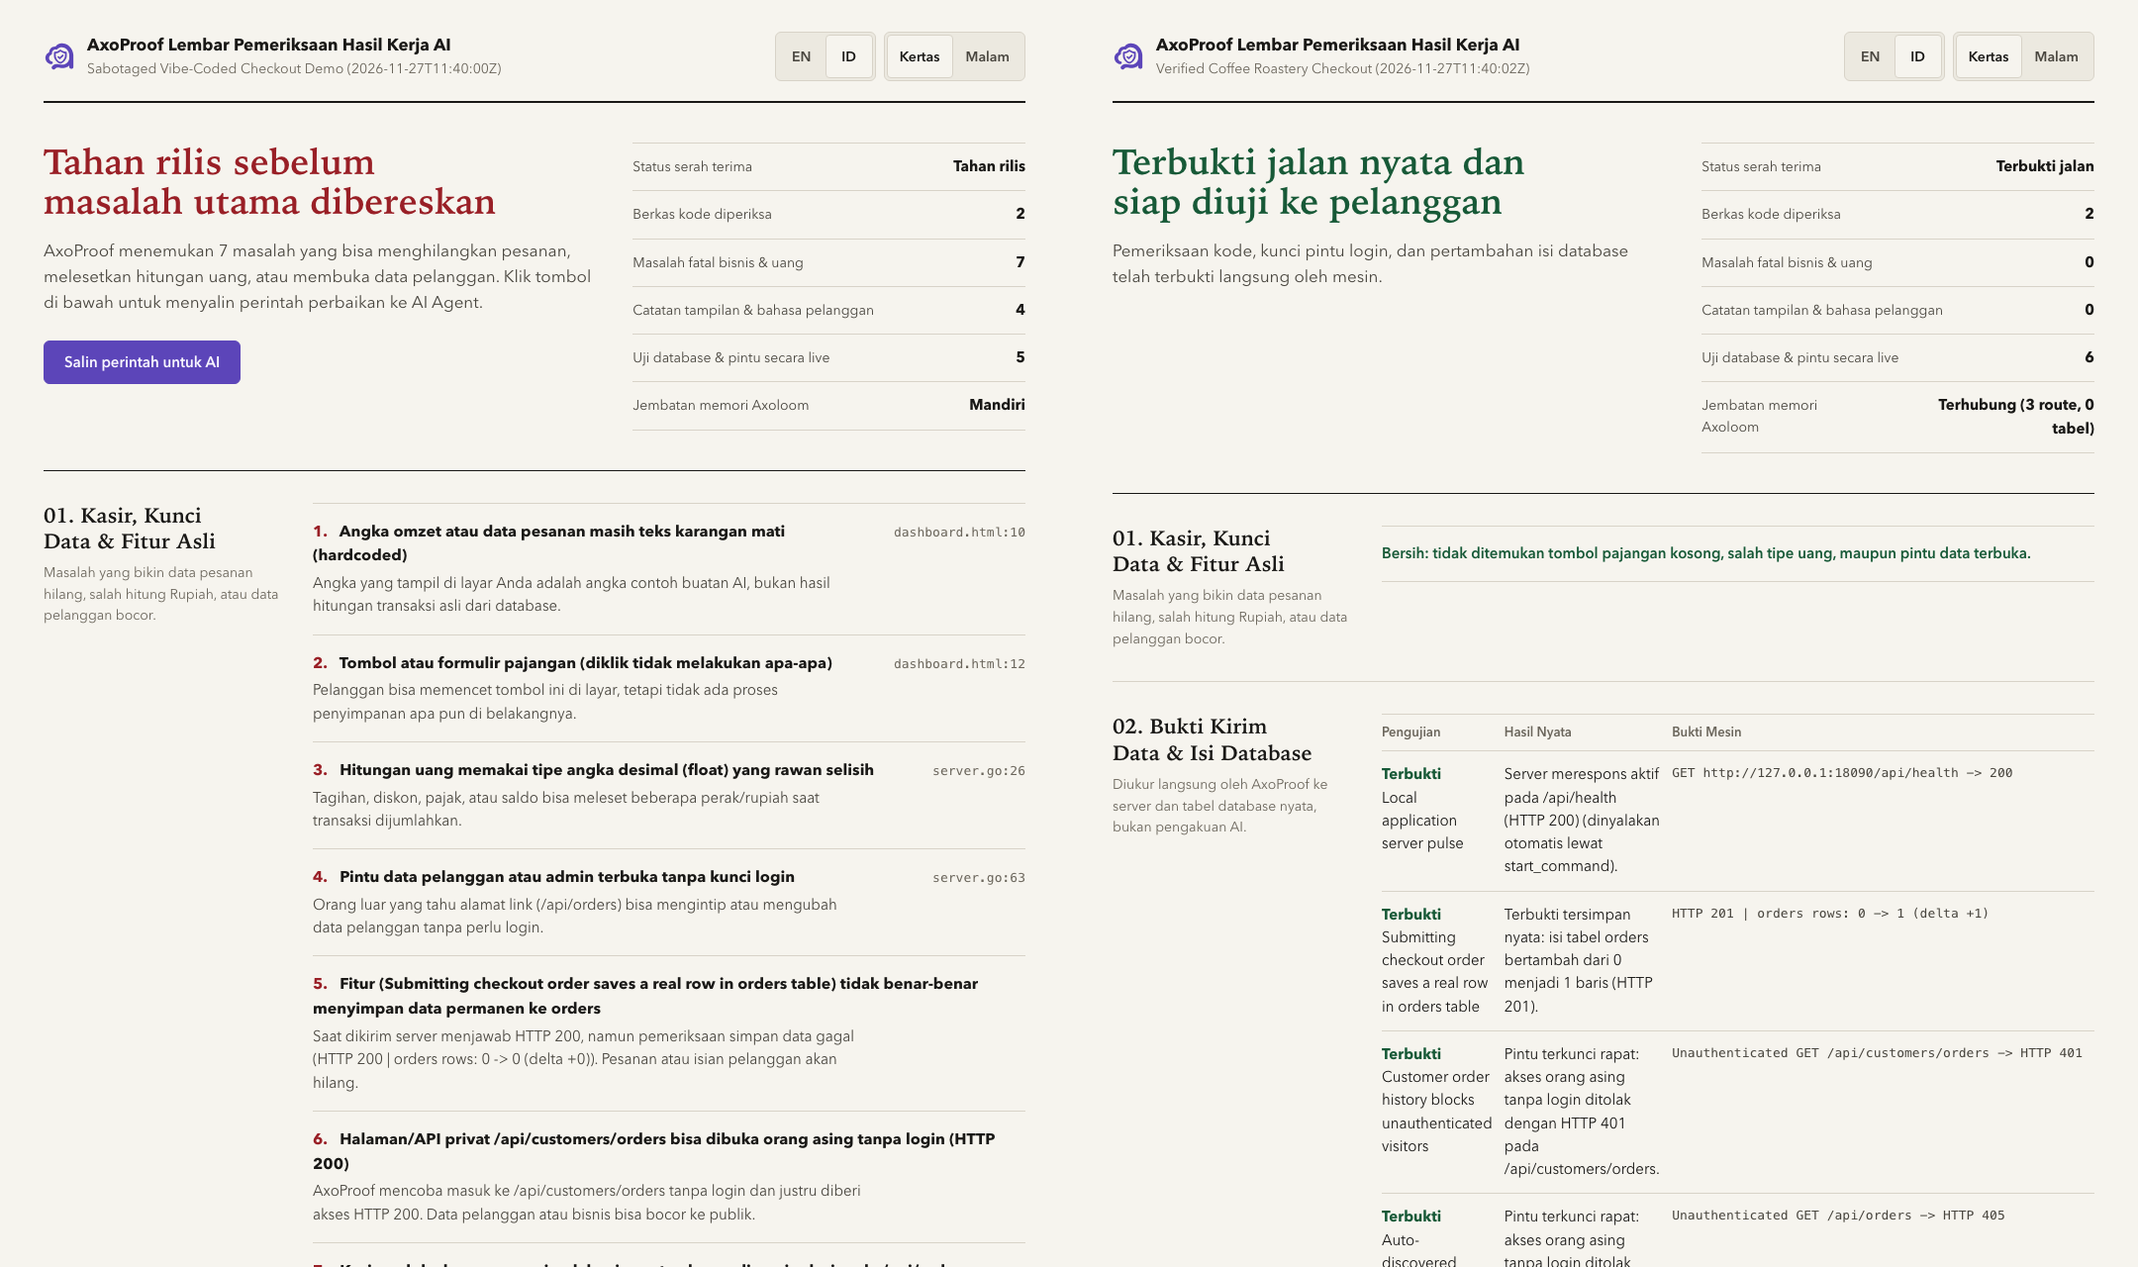
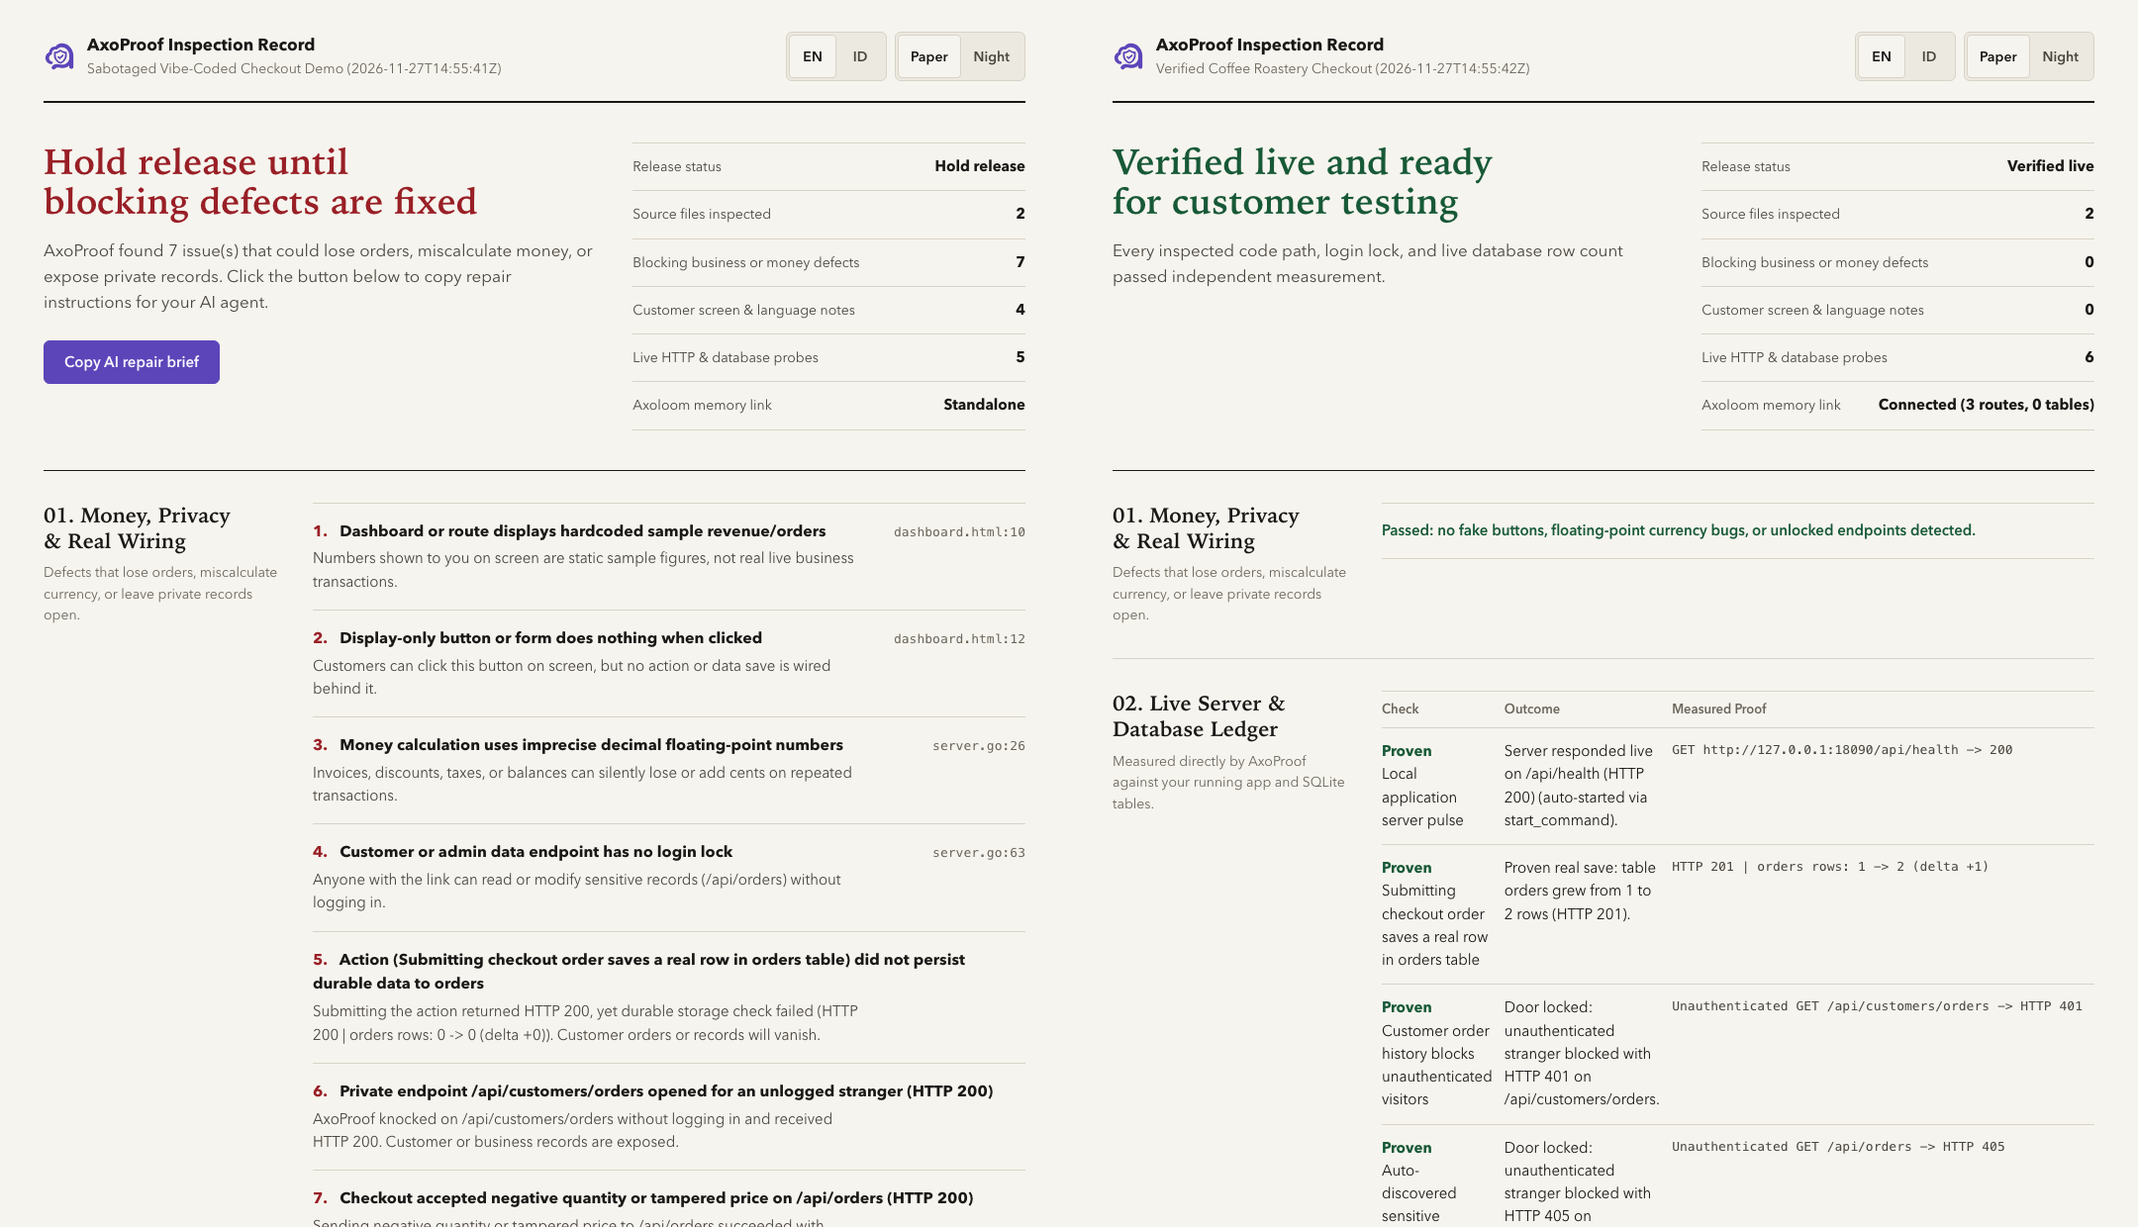
docs: standardize all examples, skill modules, and showcase dossier to international English

diff --git a/examples/sabotaged-checkout/dashboard.html b/examples/sabotaged-checkout/dashboard.html
@@ -7,7 +7,7 @@
 <body>
   <h1>Unleash the Power of Seamlessly Integrated Retail</h1>
   <p>Trusted by 10,000+ stores worldwide! Contact us at support@example.com</p>
-  <div class="kpi">Total Pendapatan Hari Ini: Rp 18.500.000</div>
+  <div class="kpi">Total Revenue: $18,500.00</div>
   <a href="#">Download Tax Invoice</a>
   <button class="h-5" onClick={() => {}}>Sync Stock</button>
 </body>

diff --git a/examples/verified-checkout/dashboard.html b/examples/verified-checkout/dashboard.html
@@ -5,8 +5,8 @@
   <title>Roastery Order Desk</title>
 </head>
 <body>
-  <h1>Fresh Roasted Arabica Beans</h1>
-  <p>Orders placed before 15:00 WIB ship the same afternoon.</p>
+  <h1>Fresh Roasted Single-Origin Beans</h1>
+  <p>Orders placed before 15:00 UTC ship the same afternoon.</p>
   <a href="/orders/history">View My Orders</a>
 </body>
 </html>

diff --git a/internal/scanners/scanner.go b/internal/scanners/scanner.go
@@ -259,10 +259,10 @@ func ScanWorkspaceFiltered(workDir string, allowedRelPaths map[string]bool) (Sca
 					Line:             lineNo,
 					TitleEN:          "Money calculation uses imprecise decimal floating-point numbers",
 					TitleID:          "Hitungan uang memakai tipe angka desimal (float) yang rawan selisih",
-					BusinessImpactEN: "Invoices, discounts, taxes, or balances can silently lose or add cents/Rupiah on repeated transactions.",
-					BusinessImpactID: "Tagihan, diskon, pajak, atau saldo bisa meleset beberapa perak/rupiah saat transaksi dijumlahkan.",
-					EvidenceSnippet:  truncateSnippet(trimmed),
-					RepairInstruction: "Store and compute all monetary values as integer minor units (int64 cents/Rupiah) or exact SQL NUMERIC/DECIMAL in " + rel + ".",
+					BusinessImpactEN:  "Invoices, discounts, taxes, or balances can silently lose or add cents on repeated transactions.",
+					BusinessImpactID:  "Tagihan, diskon, pajak, atau saldo bisa meleset beberapa perak/rupiah saat transaksi dijumlahkan.",
+					EvidenceSnippet:   truncateSnippet(trimmed),
+					RepairInstruction: "Store and compute all monetary values as integer minor units (int64 cents) or exact SQL NUMERIC/DECIMAL in " + rel + ".",
 				})
 			}
 			if reClientPrice.MatchString(line) && (strings.Contains(strings.ToLower(rel), "order") || strings.Contains(strings.ToLower(rel), "checkout") || strings.Contains(strings.ToLower(rel), "pay") || strings.Contains(strings.ToLower(rel), "cart") || ext == ".go" || ext == ".ts" || ext == ".py") {
@@ -274,7 +274,7 @@ func ScanWorkspaceFiltered(workDir string, allowedRelPaths map[string]bool) (Sca
 					Line:             lineNo,
 					TitleEN:          "Checkout trusts item price sent directly from the buyer's browser",
 					TitleID:          "Kasir mempercayai harga barang yang dikirim dari browser pembeli",
-					BusinessImpactEN: "A buyer can edit browser request data and purchase expensive items for Rp 1 or $0.01.",
+					BusinessImpactEN:  "A buyer can edit browser request data and purchase expensive items for $0.01.",
 					BusinessImpactID: "Pembeli nakal bisa mengubah harga barang dari browser menjadi Rp 1 saat checkout.",
 					EvidenceSnippet:  truncateSnippet(trimmed),
 					RepairInstruction: "Never trust client-submitted price fields in " + rel + "; look up authoritative unit prices from the server database by item SKU/ID.",

diff --git a/examples/verified-checkout/server.go b/examples/verified-checkout/server.go
@@ -14,13 +14,13 @@ import (
 )
 
 // Verified production-ready checkout server demonstrating all AxoProof gates passing:
-// 1. Exact int64 Rupiah minor-unit catalog pricing looked up on the server
+// 1. Exact int64 minor-unit (USD cents) catalog pricing looked up on the server
 // 2. Durable SQLite INSERT inside POST /api/orders (rows grow 0 -> 1)
 // 3. Rejects negative/zero quantities with HTTP 400
 // 4. Blocks unauthenticated strangers on GET /api/customers/orders with HTTP 401
 
-var serverCatalogRupiah = map[string]int64{
-	"COFFEE-BEAN-1KG": 125000,
+var serverCatalogCents = map[string]int64{
+	"COFFEE-BEAN-1KG": 2450,
 }
 
 type SafeOrderInput struct {
@@ -44,8 +44,8 @@ func main() {
 		id INTEGER PRIMARY KEY AUTOINCREMENT,
 		sku TEXT NOT NULL,
 		quantity INTEGER NOT NULL,
-		unit_price_idr INTEGER NOT NULL,
-		total_idr INTEGER NOT NULL
+		unit_price_cents INTEGER NOT NULL,
+		total_cents INTEGER NOT NULL
 	)`)
 	if err != nil {
 		log.Fatal(err)
@@ -76,20 +76,20 @@ func main() {
 			http.Error(w, `{"error":"quantity must be at least 1"}`, http.StatusBadRequest)
 			return
 		}
-		unitPrice, ok := serverCatalogRupiah[in.SKU]
+		unitPrice, ok := serverCatalogCents[in.SKU]
 		if !ok {
 			http.Error(w, `{"error":"item not found in catalog"}`, http.StatusBadRequest)
 			return
 		}
-		totalIDR := unitPrice * in.Quantity
-		if _, err := db.Exec(`INSERT INTO orders (sku, quantity, unit_price_idr, total_idr) VALUES (?, ?, ?, ?)`,
-			in.SKU, in.Quantity, unitPrice, totalIDR); err != nil {
+		totalCents := unitPrice * in.Quantity
+		if _, err := db.Exec(`INSERT INTO orders (sku, quantity, unit_price_cents, total_cents) VALUES (?, ?, ?, ?)`,
+			in.SKU, in.Quantity, unitPrice, totalCents); err != nil {
 			http.Error(w, `{"error":"could not save order"}`, http.StatusInternalServerError)
 			return
 		}
 		w.Header().Set("Content-Type", "application/json")
 		w.WriteHeader(http.StatusCreated)
-		_, _ = fmt.Fprintf(w, `{"status":"saved","total_idr":%d}`, totalIDR)
+		_, _ = fmt.Fprintf(w, `{"status":"saved","total_cents":%d}`, totalCents)
 	})
 
 	mux.HandleFunc("/api/customers/orders", func(w http.ResponseWriter, r *http.Request) {

diff --git a/examples/sabotaged-checkout/server.go b/examples/sabotaged-checkout/server.go
@@ -12,13 +12,13 @@ import (
 	_ "modernc.org/sqlite"
 )
 
-// Intentionally sabotaged demo checkout server showcasing the 5 classic AI "vibe-coding" traps
+// Intentionally sabotaged demo checkout server showcasing the classic AI "vibe-coding" traps
 // caught automatically by AxoProof:
 // 1. Float64 currency rounding + trusting client-submitted price directly
 // 2. Ghost checkout handler (returns 200 OK "paid" WITHOUT inserting a row into SQLite!)
 // 3. Unlocked customer data route (/api/customers/orders returns 200 OK with PII without login!)
 // 4. Negative quantity exploit accepted on /api/orders
-// 5. Dashboard HTML with hardcoded fake revenue ("Rp 18.500.000"), example.com, href="#", & brochure slop
+// 5. Dashboard HTML with hardcoded fake revenue ("$18,500.00"), example.com, href="#", & brochure slop
 
 type OrderInput struct {
 	SKU      string  `json:"sku"`
@@ -71,7 +71,7 @@ func main() {
 	// TRAP 3: Sensitive customer endpoint with zero authentication check!
 	mux.HandleFunc("/api/customers/orders", func(w http.ResponseWriter, r *http.Request) {
 		w.Header().Set("Content-Type", "application/json")
-		_, _ = w.Write([]byte(`{"orders":[{"customer":"Budi","phone":"0811992233","item":"VIP Package"}]}`))
+		_, _ = w.Write([]byte(`{"orders":[{"customer":"Alice Morgan","email":"alice@client.test","item":"Annual Pro Plan"}]}`))
 	})
 
 	log.Printf("Sabotaged demo store listening on %s", addr)

diff --git a/cmd/axoproof/main.go b/cmd/axoproof/main.go
@@ -263,8 +263,8 @@ func buildBlindspots(m claims.Manifest, probeOut probes.Outcome) []model.Blindsp
 		})
 	}
 	list = append(list, model.BlindspotItem{
-		TitleEN: "Real bank/QRIS/Stripe settlement & business offer accuracy",
-		TitleID: "Uang masuk rekening asli (QRIS/Bank/Stripe) & kesesuaian harga bisnis",
+		TitleEN: "Real bank/Stripe settlement & business offer accuracy",
+		TitleID: "Uang masuk rekening asli (Bank/Stripe/QRIS) & kesesuaian harga bisnis",
 		WhyEN:   "Automated local probes never move real bank funds; always confirm one live payment and verify your real product pricing before public ads.",
 		WhyID:   "Pengujian lokal tidak memindahkan uang bank asli; selalu tes 1 pembayaran kecil nyata dan pastikan daftar harga sesuai katalog asli Anda.",
 	})

diff --git a/README.md b/README.md
@@ -4,7 +4,7 @@
 
 <h3 align="center">
   Independent Runtime Proof, Money/Privacy Inspector, Structural Anti-Slop Filter,<br>
-  and SHA-256 Sealed Owner Receipt (<code>EN / ID</code>) for AI Coding Agents.
+  and SHA-256 Sealed Owner Receipt for AI Coding Agents.
 </h3>
 
 <p align="center">
@@ -22,7 +22,7 @@
 
 AI coding agents routinely tell non-technical founders, agency owners, and busy builders *"Done! Build passed!"* while leaving behind hidden landmines:
 
-- **Placebo Interfaces:** Buttons that show a green success toast while saving `0` rows to the database, or dashboard cards showing hardcoded sample revenue (`Rp 18.500.000`).
+- **Placebo Interfaces:** Buttons that show a green success toast while saving `0` rows to the database, or dashboard cards showing hardcoded sample revenue (`$18,500.00`).
 - **Cash-Register Bugs:** Floating-point rounding errors on currency, negative-quantity exploits (`quantity: -5`), or checkout routes that trust item prices sent directly from the buyer's browser.
 - **Unlocked Customer Doors:** Sensitive `/api/customers` or `/api/orders` endpoints left open without authentication, or secret keys leaked into `NEXT_PUBLIC_*` / `VITE_*` client bundles.
 - **Customer-Screen AI Slop:** Leftover `example.com` contacts, dead `href="#"` links, raw `500` stack traces shown to customers, and stiff brochure cliches.
@@ -35,7 +35,7 @@ An AI coding agent grading its own work has a conflict of interest. **AxoProof**
 
 `Axoloom` and `AxoProof` form a closed quality loop across your workspace:
 
-1. **Upstream (`Axoloom` -> `AxoProof`):** Before writing code or copy, the agent loads real business facts, brand voice, and permanent guardrails from `Axoloom` so it never invents generic filler. During verification, `AxoProof` reads `.axoloom/axoloom.db` directly to catch sensitive API routes even if the agent forgot to declare them in `claims.json`.
+1. **Upstream (`Axoloom` -> `AxoProof`):** Before writing code or copy, the agent loads real business facts, brand voice, and permanent guardrails from `Axoloom` so it never invents generic filler. During verification, `AxoProof` reads `.axoloom/index.db` directly to catch sensitive API routes even if the agent forgot to declare them in `claims.json`.
 2. **Downstream (`AxoProof` -> `Axoloom`):** Running `axoproof verify --sync-axoloom` writes the SHA-256 sealed verification outcome back into `Axoloom` handoff memory so future sessions inherit lessons automatically.
 
 ---
@@ -87,13 +87,13 @@ AxoProof automatically starts each demo server via `start_command`, probes live 
 **Catch 7 blocking AI vibe-coding lies red-handed (`HOLD_RELEASE`):**
 
 ```bash
-./axoproof verify --dir ./examples/sabotaged-checkout --lang id || true
+./axoproof verify --dir ./examples/sabotaged-checkout || true
 ```
 
 **Verify the repaired store passing all live DB, auth, tamper, and mobile screen probes (`SAFE_TO_TEST`):**
 
 ```bash
-./axoproof verify --dir ./examples/verified-checkout --lang id
+./axoproof verify --dir ./examples/verified-checkout
 ```
 
 ---

diff --git a/skills/axoproof/modules/customer-ready.md b/skills/axoproof/modules/customer-ready.md
@@ -7,13 +7,13 @@ Customer-facing pages must look and read like a real human business built them, 
 - **No Card-in-Card or 3-Clone Grids:** Avoid nesting bordered cards inside bordered containers, avoid 3 identical icon-above-heading boxes when a real product preview or clear table serves better, and never add uppercase eyebrow badges above headings.
 - **Mobile Ergonomics (`375px`):** Every interactive button/input needs at least `44x44px` tap area, instant `:focus-visible`, WCAG AA contrast, and `overflow-x: clip`.
 
-## 2. Human Microcopy vs Robotic Prose (ID & EN)
+## 2. Human Microcopy vs Robotic Prose
 
 | Robotic AI Tell (Rewrite Immediately) | Natural Human Copy (Use Instead) |
 | :--- | :--- |
-| Vague hype slogans, three-adjective triads, decorative em-dash chains | State the concrete action, time, or price in plain everyday words (`"Pesanan sebelum 15.00 dikirim sore ini"`). |
-| Leaking `Error 500: PrismaClientKnownRequestError` or `undefined` | `"Pesanan belum tersimpan karena koneksi terputus. Silakan tekan Coba Lagi."` |
-| Fake `info@example.com`, `0812-3456-7890`, `Lorem ipsum`, `href="#"`, or made-up `"10,000+ users"` | Use verified business contacts/numbers from `Axoloom` vault, or ask the owner before publishing. |
+| Vague hype slogans, three-adjective triads, decorative em-dash chains | State the concrete action, time, or price in plain everyday words (`"Orders placed before 3:00 PM ship the same afternoon"`). |
+| Leaking `Error 500: PrismaClientKnownRequestError` or `undefined` | `"Your order could not be saved because the connection dropped. Please press Try Again."` |
+| Fake `info@example.com`, `+1 (555) 0199`, `Lorem ipsum`, `href="#"`, or made-up `"10,000+ users"` | Use verified business contacts/numbers from `Axoloom` vault, or ask the owner before publishing. |
 
 ## 3. Mandatory Fresh-Eyes Customer Critic Pass
 Before running final `axoproof verify` on a customer-facing screen, launch one isolated read-only subagent (or dedicated review pass) prompted strictly as a skeptical first-time buyer reading ONLY the rendered screen text to strip stiff phrasing.

diff --git a/skills/axoproof/modules/live-persistence.md b/skills/axoproof/modules/live-persistence.md
@@ -7,5 +7,5 @@ Passing `tsc`, `npm run build`, or `go build` proves syntax only; `axoproof` req
 1. **Auto-Boot Support (`start_command`):** Set `"base_url"`, `"health_path"`, and `"start_command"` (e.g., `"npm run start"` or `"go run ./cmd/server"`). If the server is not already running, `axoproof verify` starts it automatically, runs all probes, and terminates the process tree cleanly.
 2. **PostgreSQL / Supabase / MySQL / API (`read_back_path`):** Set `"read_back_path"` (plus `"read_headers"` if auth-protected) and `"expect_read_substring"` (a unique SKU/reference in `"payload_json"`). `axoproof` fetches `GET` before, fires `POST`, and verifies the persisted record appears on subsequent `GET`.
 3. **Local SQLite (`sqlite_path` + `table`):** `axoproof` counts `SELECT COUNT(*) FROM "<table>"` directly before and after the write (`0 -> 1`).
-4. **Mobile Browser Render (`screen_routes`):** List key user-facing routes (`["/", "/checkout"]`) so `axoproof` opens them in headless Chrome at `375x812` to catch blank white screens, client JS crashes, or `Rp NaN` rendering bugs.
-5. **Honest `external_deps`:** List third-party live callbacks (QRIS/Stripe bank settlement, WhatsApp OTP) that require the owner's 2-minute real-world check.
+4. **Mobile Browser Render (`screen_routes`):** List key user-facing routes (`["/", "/checkout"]`) so `axoproof` opens them in headless Chrome at `375x812` to catch blank white screens, client JS crashes, or `$NaN` / `undefined` rendering bugs.
+5. **Honest `external_deps`:** List third-party live callbacks (Stripe/bank settlement webhooks, SMS/OTP gateways) that require the owner's 2-minute real-world check.

diff --git a/skills/axoproof/modules/cash-register.md b/skills/axoproof/modules/cash-register.md
@@ -6,7 +6,7 @@ Treat every price, invoice, wallet, discount, tax split, and inventory count as 
 
 | Cash-Register Bug (Forbidden) | Exact Ledger Pattern (Required) |
 | :--- | :--- |
-| `price FLOAT` / `float64` / `parseFloat(req.body.price)` | Store & compute integer minor units (`BIGINT` / `int64` Rupiah or cents) or SQL `NUMERIC(18,2)`. Compute splits/tax via integer math with explicit remainder allocation. |
+| `price FLOAT` / `float64` / `parseFloat(req.body.price)` | Store & compute integer minor units (`BIGINT` / `int64` cents) or SQL `NUMERIC(18,2)`. Compute splits/tax via integer math with explicit remainder allocation. |
 | `total = req.body.quantity * req.body.price` | Ignore client-submitted prices/discounts. Query authoritative `unit_price` and active promo rules from the server database by `sku` / `product_id`. |
 | Accepting `quantity: 0` or `quantity: -3` | Enforce `quantity >= 1` and `stock >= quantity` (`UPDATE products SET stock = stock - $1 WHERE id = $2 AND stock >= $1`) inside the transaction, returning HTTP `400`/`422` otherwise. |
 | Double charge when customer taps "Pay" twice | Require an `idempotency_key` (`UNIQUE` index on `(user_id, idempotency_key)`) and wrap order + ledger rows in one atomic `BEGIN ... COMMIT` transaction. |

diff --git a/skills/axoproof/modules/no-placebo.md b/skills/axoproof/modules/no-placebo.md
@@ -8,7 +8,7 @@ Never hand the owner a painted facade that looks finished on screen while doing 
 | :--- | :--- |
 | `<button onClick={() => toast("Saved!")}>` or `onClick={() => {}}` | Disable button while pending, send `POST`/`PATCH` to real route, show toast ONLY after `2xx` response, and refresh persisted state. |
 | `setTimeout(() => setSuccess(true), 800)` | Await real database/API write; surface clear human error state if network or validation fails. |
-| Hardcoded dashboard KPIs (`Rp 18.500.000`, `const mockOrders = [...]`) | Query `SUM(...)` / `COUNT(...)` from real database tables; render `Rp 0` or an honest empty state when zero rows exist. |
+| Hardcoded dashboard KPIs (`$18,500.00`, `const mockOrders = [...]`) | Query `SUM(...)` / `COUNT(...)` from real database tables; render `$0.00` or an honest empty state when zero rows exist. |
 | Silencing broken tests with `it.skip(...)` or `t.Skip()` | Fix the underlying handler/schema defect or update the outdated fixture so the test runs and passes cleanly. |
 
 ## Pre-Delivery Check

diff --git a/skills/axoproof/SKILL.md b/skills/axoproof/SKILL.md
@@ -1,6 +1,6 @@
 ---
 name: axoproof
-description: "Independent runtime proof, money/privacy safety inspector, structural anti-slop filter, and SHA-256 sealed plain-language Owner Receipt engine (EN/ID) built for non-IT founders, agencies, and AI coding agents. Pairs natively with Axoloom."
+description: "Independent runtime proof, money/privacy safety inspector, structural anti-slop filter, and SHA-256 sealed plain-language Owner Receipt engine built for non-IT founders, agencies, and AI coding agents. Pairs natively with Axoloom."
 license: MIT
 ---
 
